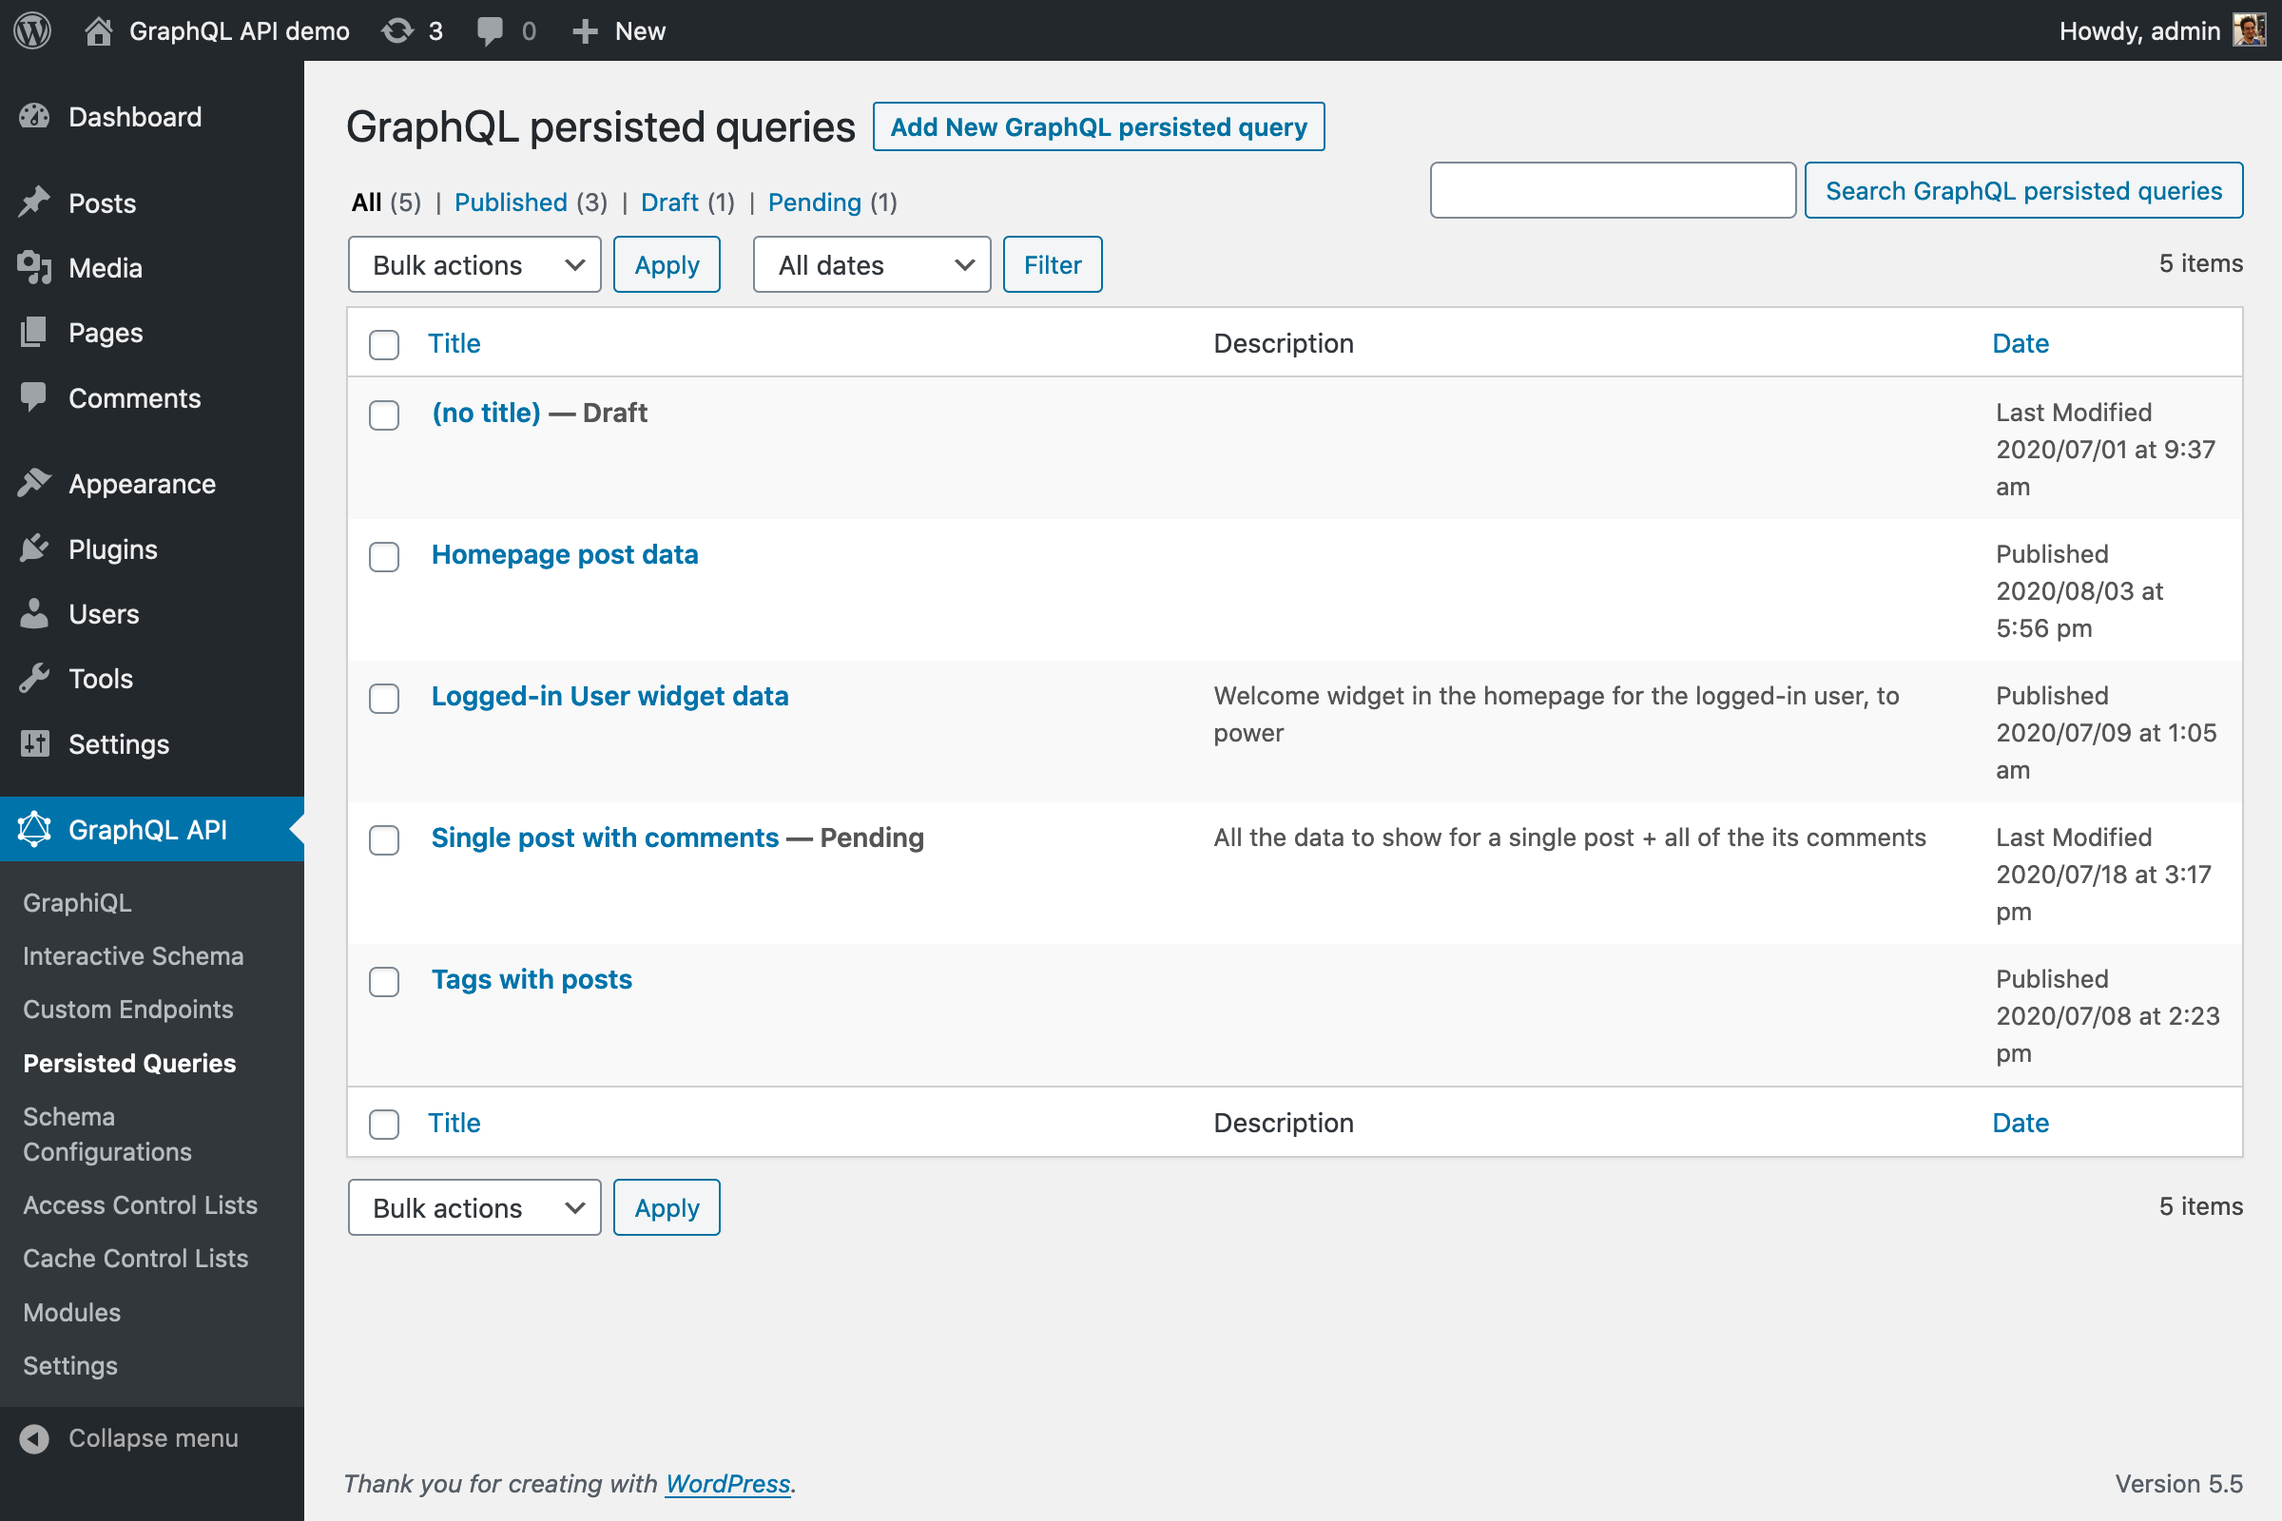
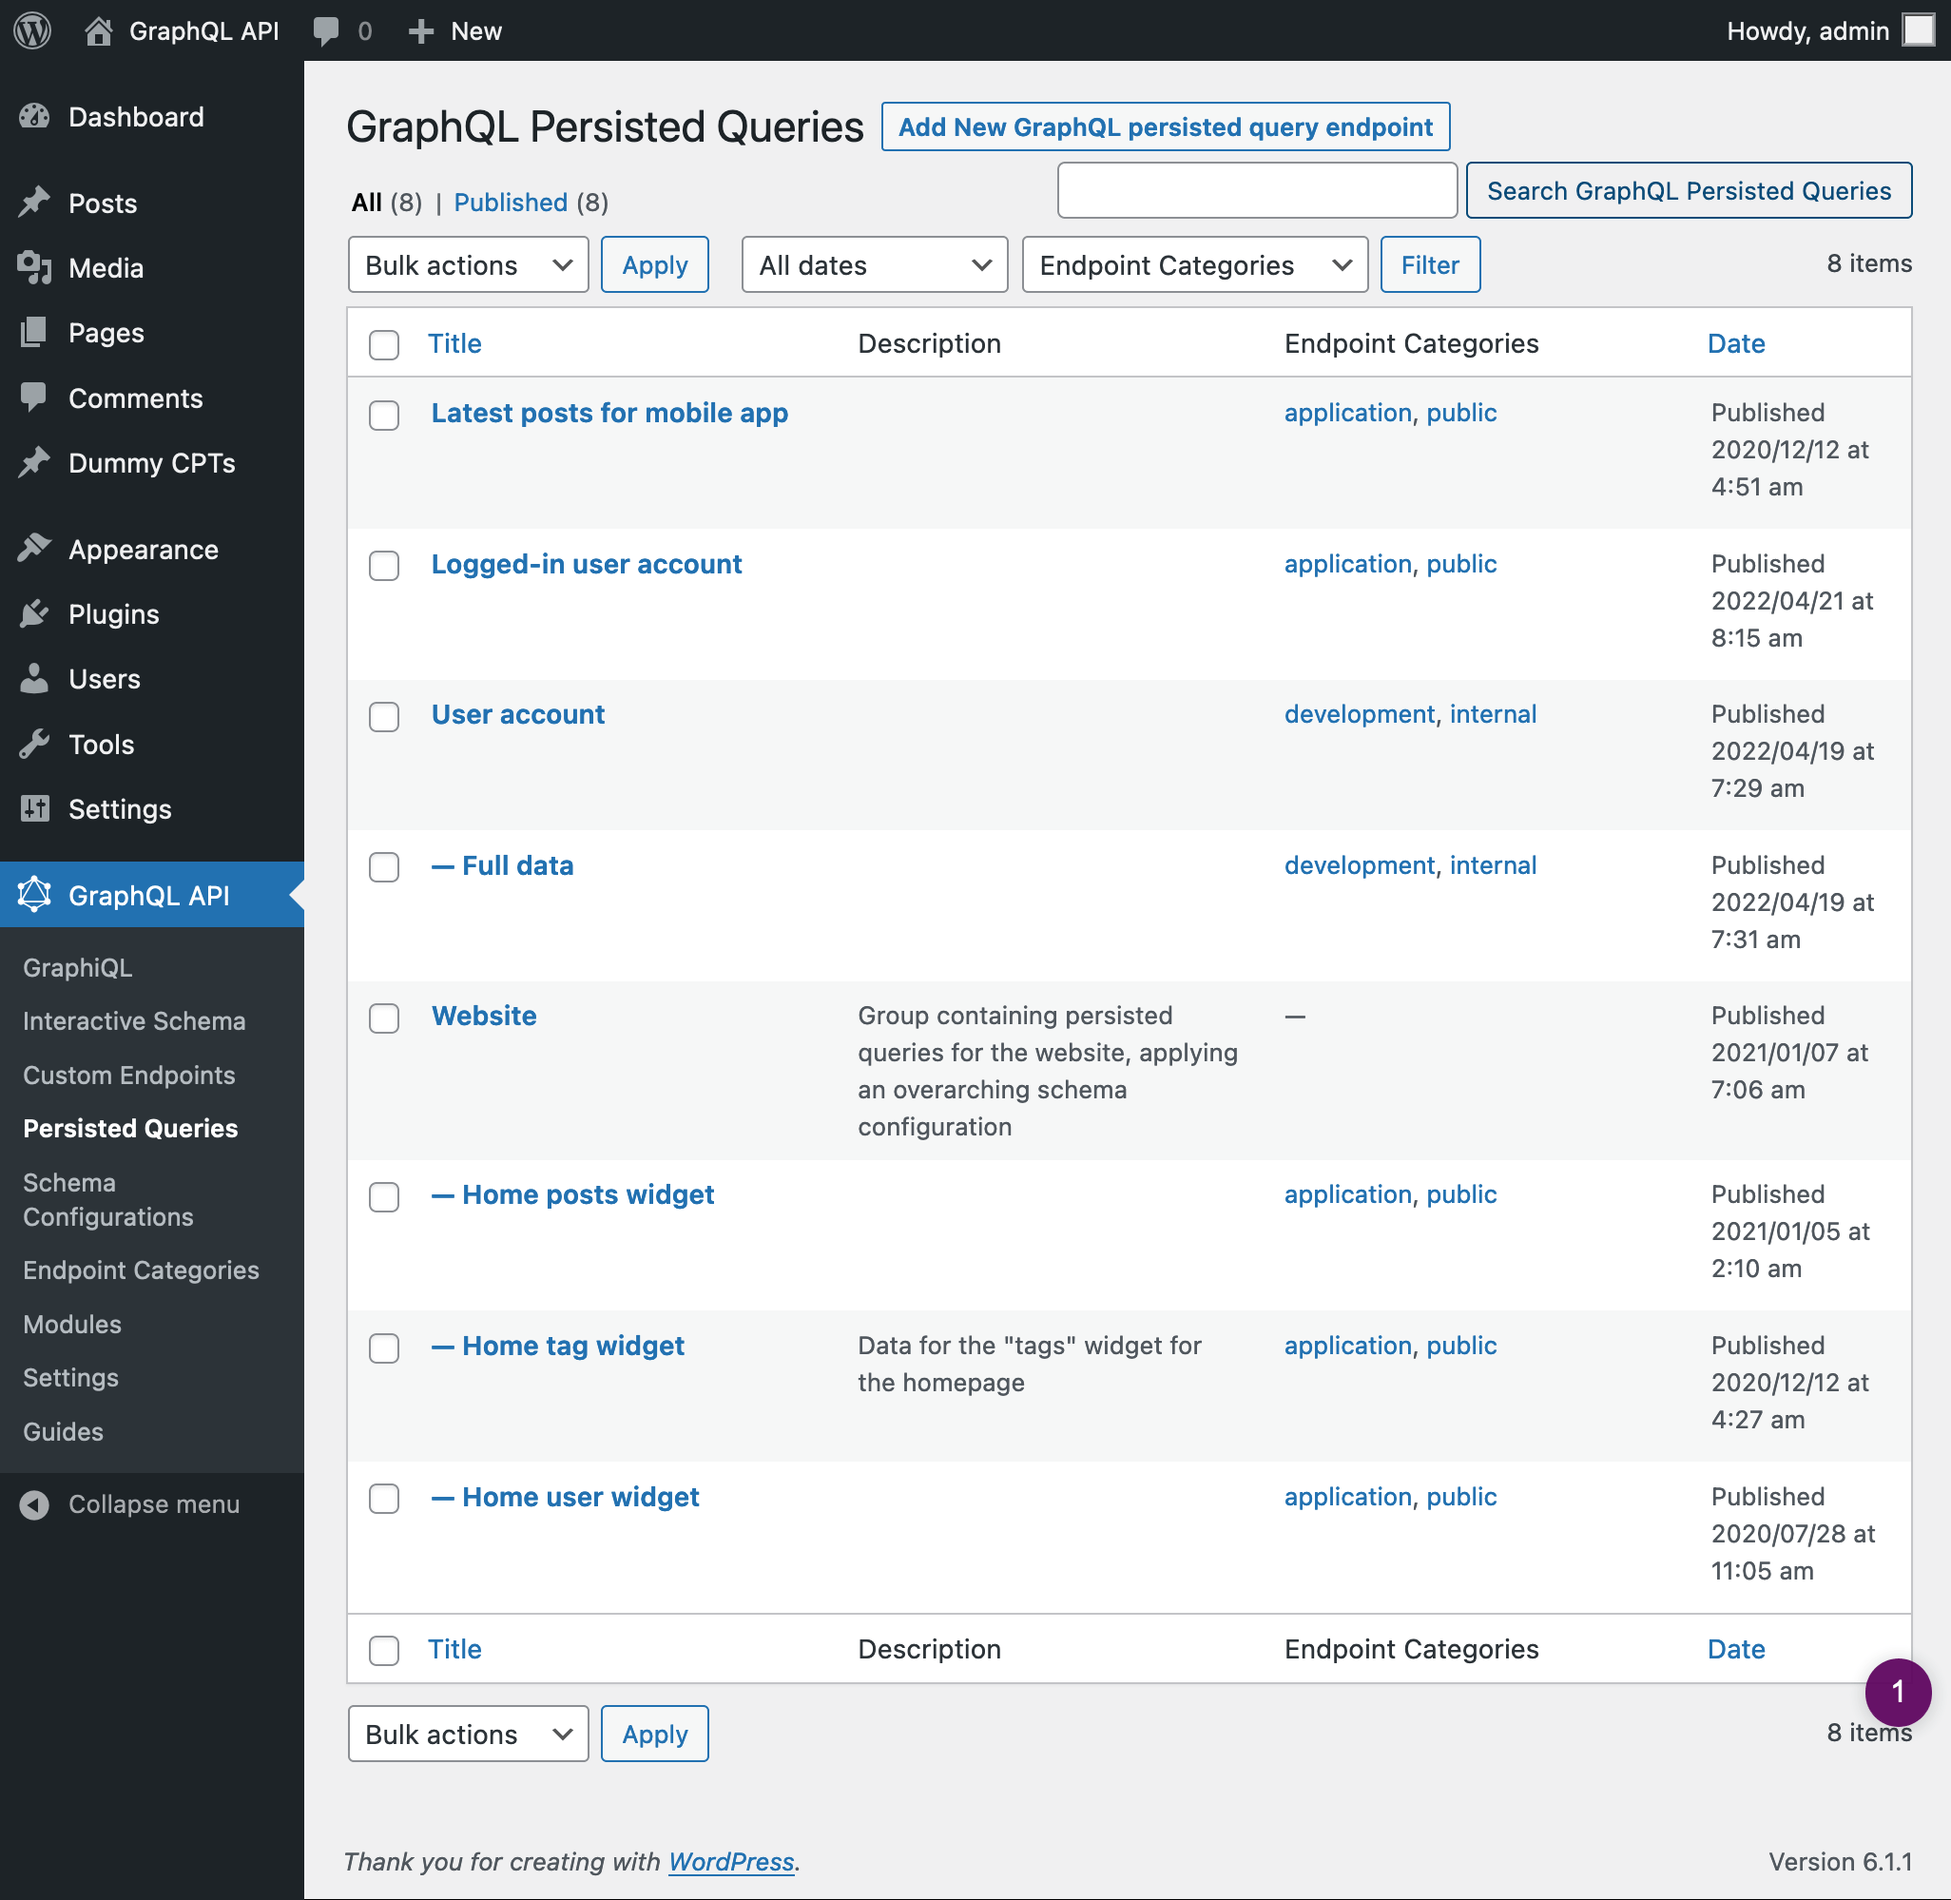
Updated pics

diff --git a/docs/modules/excerpt-as-description/en.md b/docs/modules/excerpt-as-description/en.md
@@ -15,7 +15,7 @@ Use the excerpt field to provide a description for the different Custom Post Typ
 
 The description is shown in the table listing the entities for each Custom Post Type, under column `Description`:
 
-![Persisted queries with description](../../images/persisted-queries-with-description.png "Persisted queries with description")
+![Persisted queries with description](../../images/persisted-queries-page.png "Persisted queries with description")
 
 The description is also displayed when visualizing the entity:
 
